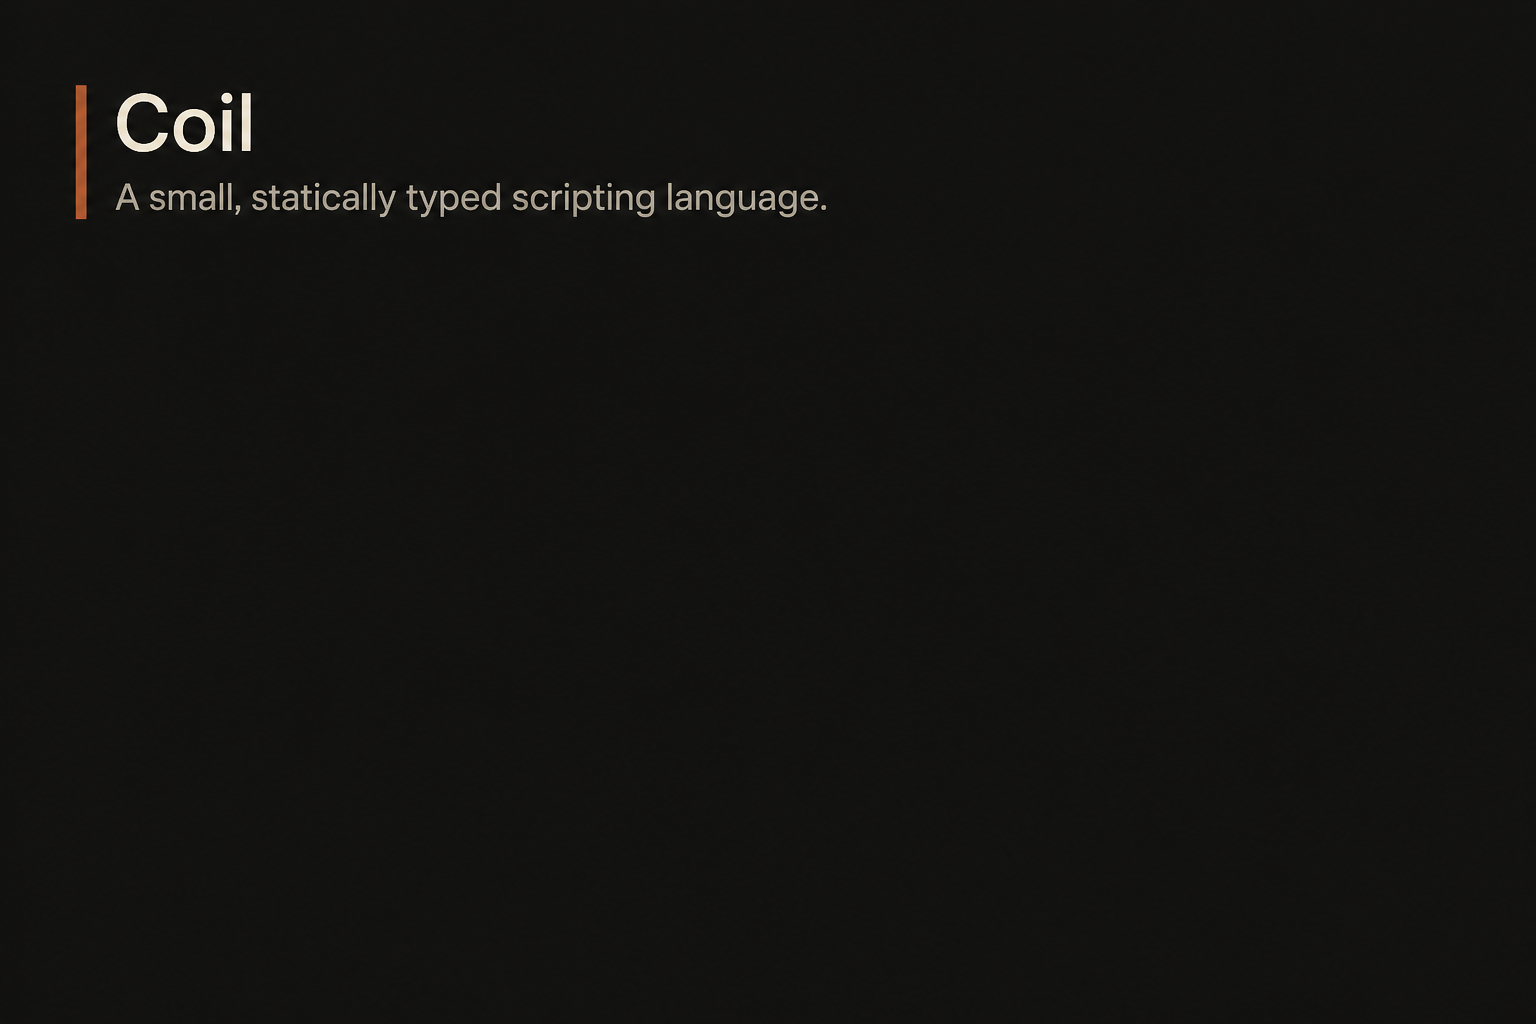
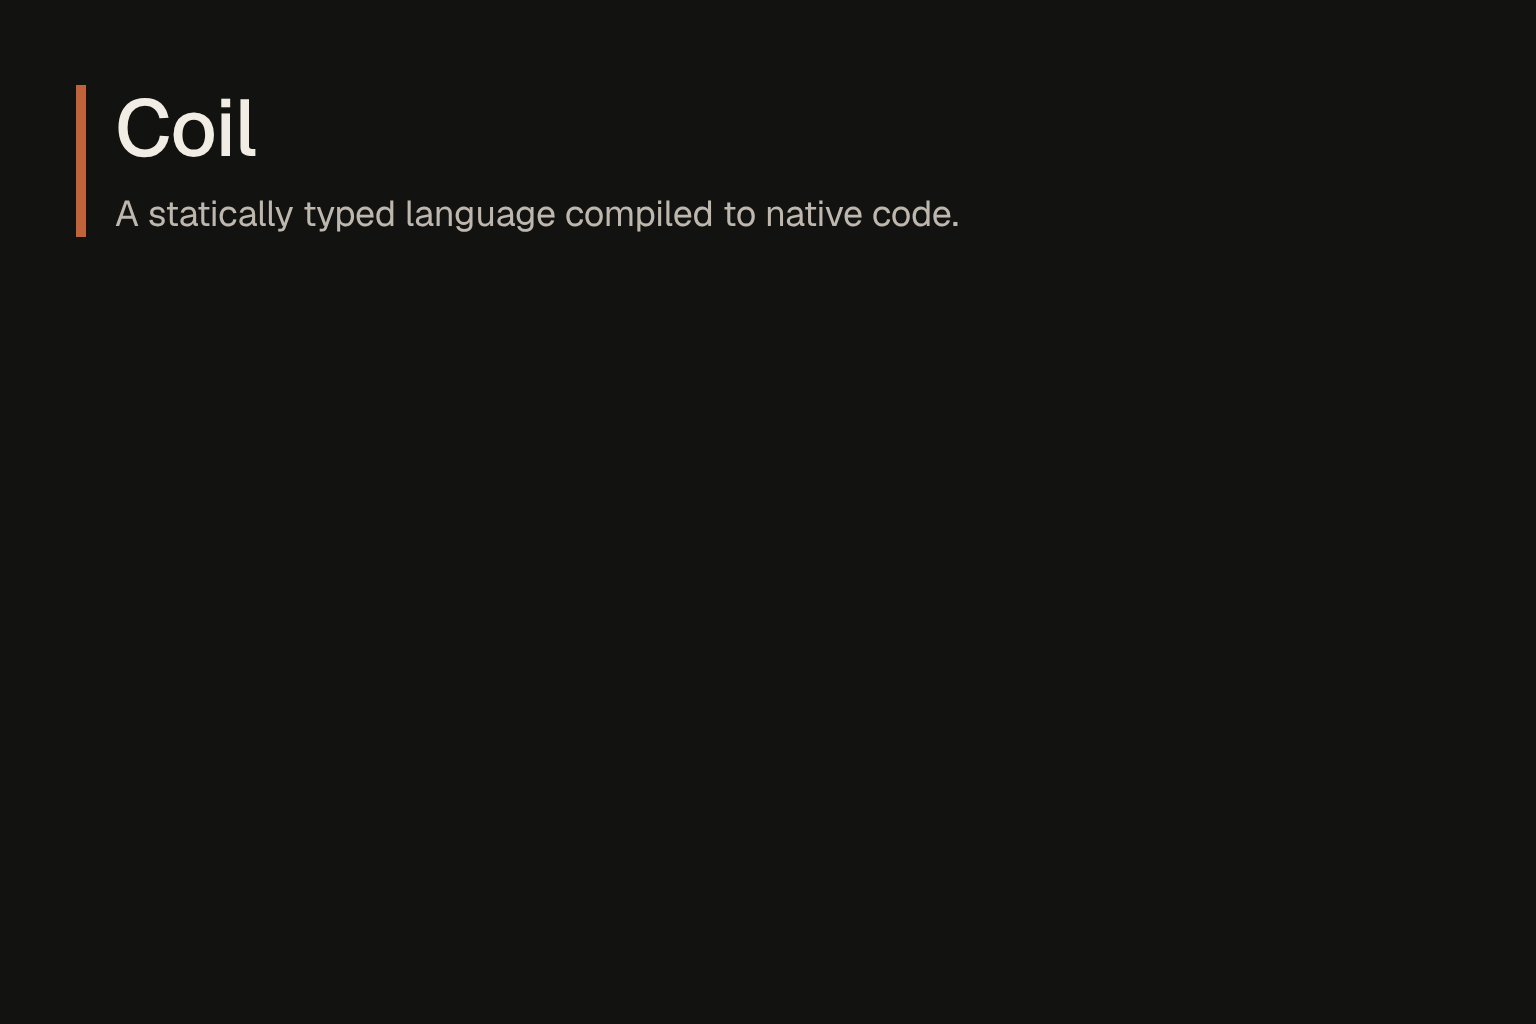
Position Coil as natively compiled; drop "scripting language" (#217)
* docs(language): native code page (JIT, compiled archives, AOT packages)

Claude-Session: https://claude.ai/code/session_01EYHAuAUtJf2QVSvRQ3GXeQ

* docs(language): link C libraries statically into native executables

Claude-Session: https://claude.ai/code/session_01EYHAuAUtJf2QVSvRQ3GXeQ

* docs(native): --strip-symbols

Claude-Session: https://claude.ai/code/session_01EYHAuAUtJf2QVSvRQ3GXeQ

* docs(cli): no pipes in the package row

Claude-Session: https://claude.ai/code/session_01EYHAuAUtJf2QVSvRQ3GXeQ

* docs(language): native executables carry no VM; collection timing

Claude-Session: https://claude.ai/code/session_01EYHAuAUtJf2QVSvRQ3GXeQ

* docs(language): native code is the default, with an interpreter beside it (#219)

* docs: every coil block passes check-examples, on wasm too (#220)

* docs: programs run as native code; the VM is gone (#221)

Inspect shows what dissect prints now; the docs and home page name native code and the MIR interpreter.

* docs(native-code): coil package can stop before the link (#222)

Documents coil package --emit obj|lib.

* docs(cli): the code cache (#223)

Documents the code cache.

* docs(native-code): native executables link on Windows too

* feat(home): position Coil as natively compiled; add an under-the-hood section

Hero, metadata, footer and OG image say statically typed and compiled to
native code instead of a scripting language on a bytecode VM. A new home
[…]

Changed region(s): [[0.0625, 0.1875, 0.625, 0.2188], [0.0312, 0.0938, 0.1875, 0.1562]]

diff --git a/src/content/docs/index.md b/src/content/docs/index.md
@@ -1,15 +1,19 @@
 ---
 title: Docs
-description: A small typed scripting language with more structure than a typical script, compiled to native code.
+description: A statically typed language with type inference, compiled to native code, with automatic parallelism, SIMD loops, macros and managed memory.
 ---
 
 # coil
 
-**coil** is a statically typed scripting language with type inference. Programs are compiled to native code with Cranelift, when they start or ahead of time. Source files use the `.coil` extension (short for **henry**, the SI unit of inductance — the measure of a coil); compiled archives are stored as `.ccoil` files.
+**coil** is a statically typed language with type inference. The compiler turns functions into machine code with [Cranelift](https://cranelift.dev), and `coil package` links a program into a native executable ([native code](/docs/language/native-code)). Source files use the `.coil` extension (short for **henry**, the SI unit of inductance — the measure of a coil); compiled archives are stored as `.ccoil` files.
 
-For developers who want a small typed scripting language with more structure than a typical script, compiled to native code.
+For developers who want type checking and inference without a heavyweight build pipeline, and native speed without managing memory by hand:
 
-The language targets embeddable scripting: you get real type checking and inference without a heavyweight build pipeline, plus optional FFI for calling into C libraries.
+- **Parallelism**: pure recursive calls and counted loops run across cores automatically (`--auto-par`), and [OS threads](/docs/manual/tutorial/14-threads) with channels and mutexes cover the rest. [Tasks](/docs/manual/tutorial/13-tasks) handle concurrent IO.
+- **SIMD**: the compiler vectorizes byte scans and counted map and reduce loops; fixed-size array arithmetic runs on [packed kernels](/docs/language/operators#aggregate-vector-arithmetic).
+- **Metaprogramming**: [macros](/docs/language/macros) and [compile-time code](/docs/language/comptime) are ordinary Coil that runs while compiling.
+- **Managed memory**: [copy-on-write values, a tracing collector, early freeing and `region` blocks](/docs/language/memory).
+- **FFI**: [`extern` blocks](/docs/manual/tutorial/16-ffi) call C libraries, which a native executable can link statically.
 
 ## Quick start
 
@@ -119,6 +123,8 @@ coil/
 ├── coil-native/     # MIR to machine code with Cranelift (JIT and AOT)
 ├── coil-mir-interp/ # MIR interpreter
 ├── machine/         # Runtime: heap/GC, tasks, FFI (libffi)
+├── coil-rt/         # Runtime library linked into native executables
+├── coil-simd/       # SIMD kernels (SSE2 / AVX2 / AVX-512 / NEON)
 ├── coil-*/          # CLI helpers: test, fmt, lsp, debug, dissect, verify, embed
 ├── examples/        # Runnable .coil demos (see manual/examples.md)
 │   └── projects/    # Showcase multi-file apps + co-located tests
@@ -130,7 +136,7 @@ coil/
 
 | Command | Role |
 |---------|------|
-| *(no subcommand)* `<file.coil>` | Compile in memory → run (no `out.ccoil`) |
+| *(no subcommand)* `<file.coil>` | Compile in memory → run as machine code (no `out.ccoil`) |
 | `compile <file.coil> [-o path]` | Compile entry file to a `.ccoil` archive |
 | `run <file.ccoil>` | Execute a compiled archive |
 | `package <file.coil> [-o path] [--check-native]` | Single native executable (`--no-aot`: the `coil-embed` JIT runner with the program inside) |

diff --git a/src/content/docs/language/syntax.md b/src/content/docs/language/syntax.md
@@ -43,12 +43,6 @@ use my_macros::{add_after};
 #[derive(Show, Eq, Ord)]
 enum Color { Red, Blue }
 
-#[max_depth(64)]
-fn walk(int n) -> int {
-    if n == 0 { return 0; }
-    return walk(n - 1);
-}
-
 // An attribute macro from `my_macros`: its output replaces the function.
 #[add_after(by = 10)]
 fn triple(int x) -> int { return x * 3; }
@@ -58,7 +52,6 @@ fn triple(int x) -> int { return x * 3; }
 |-----------|--------|-----------|
 | `#[derive(Trait, …)]` | `enum` / `class` | Runs each derive (built-in `Show`, `Eq`, `Ord`, `Hash`, `Default`, `Send`, `Sensitive`, or a user `derive` imported with `use`) and adds its output after the type. Without derive, non-generic **payload** types still get a default `Show`: a class returns its type name string, an enum its qualified variant name (`E::V`, payload elided). Scalar-backed enums with `#[derive(Show)]` print the backing word instead. |
 | `#[repr(int)]` / `#[repr(string)]` / `#[repr(float)]` / `#[repr(bool)]` | `enum` | Scalar-backed enum: each case is `Name = lit` of that primitive. May be omitted when every case has `=` and the literals share one type. See [Types — Scalar-backed enums](/docs/language/types#scalar-backed-enums). |
-| `#[max_depth(N)]` | recursive `fn` | Optional hint of how deep the recursion goes, for when the compiler cannot prove a depth (dynamic args, mutual recursion). Depth is checked at run time either way, so a wrong `N` does no harm. `N` must be a positive integer. |
 | Attribute macro `#[name(…)]` | `fn`, methods, `class`, `enum` | Runs the `attr name(…)` macro imported with `use`; its output replaces the item. See [Macros](/docs/language/macros#attribute-macros). |
 
 Several attribute macros on one item apply outermost first. Unknown attribute names are rejected at compile time.

diff --git a/src/content/docs/manual/examples.md b/src/content/docs/manual/examples.md
@@ -1839,7 +1839,7 @@ Stackful coroutines via `gen fn`, `yield`, and `resume`. Phase 2 adds send/recei
 
 ## OS threads
 
-Native threads via `use thread::{spawn, join, …};` — each worker has its own runtime. See [Tutorial 11 — OS threads](/docs/manual/tutorial/14-threads).
+OS threads via `use thread::{spawn, join, …};`: each worker runs on its own thread. See [Tutorial 14 — Threads](/docs/manual/tutorial/14-threads).
 
 ### `examples/thread_join.coil`
 
